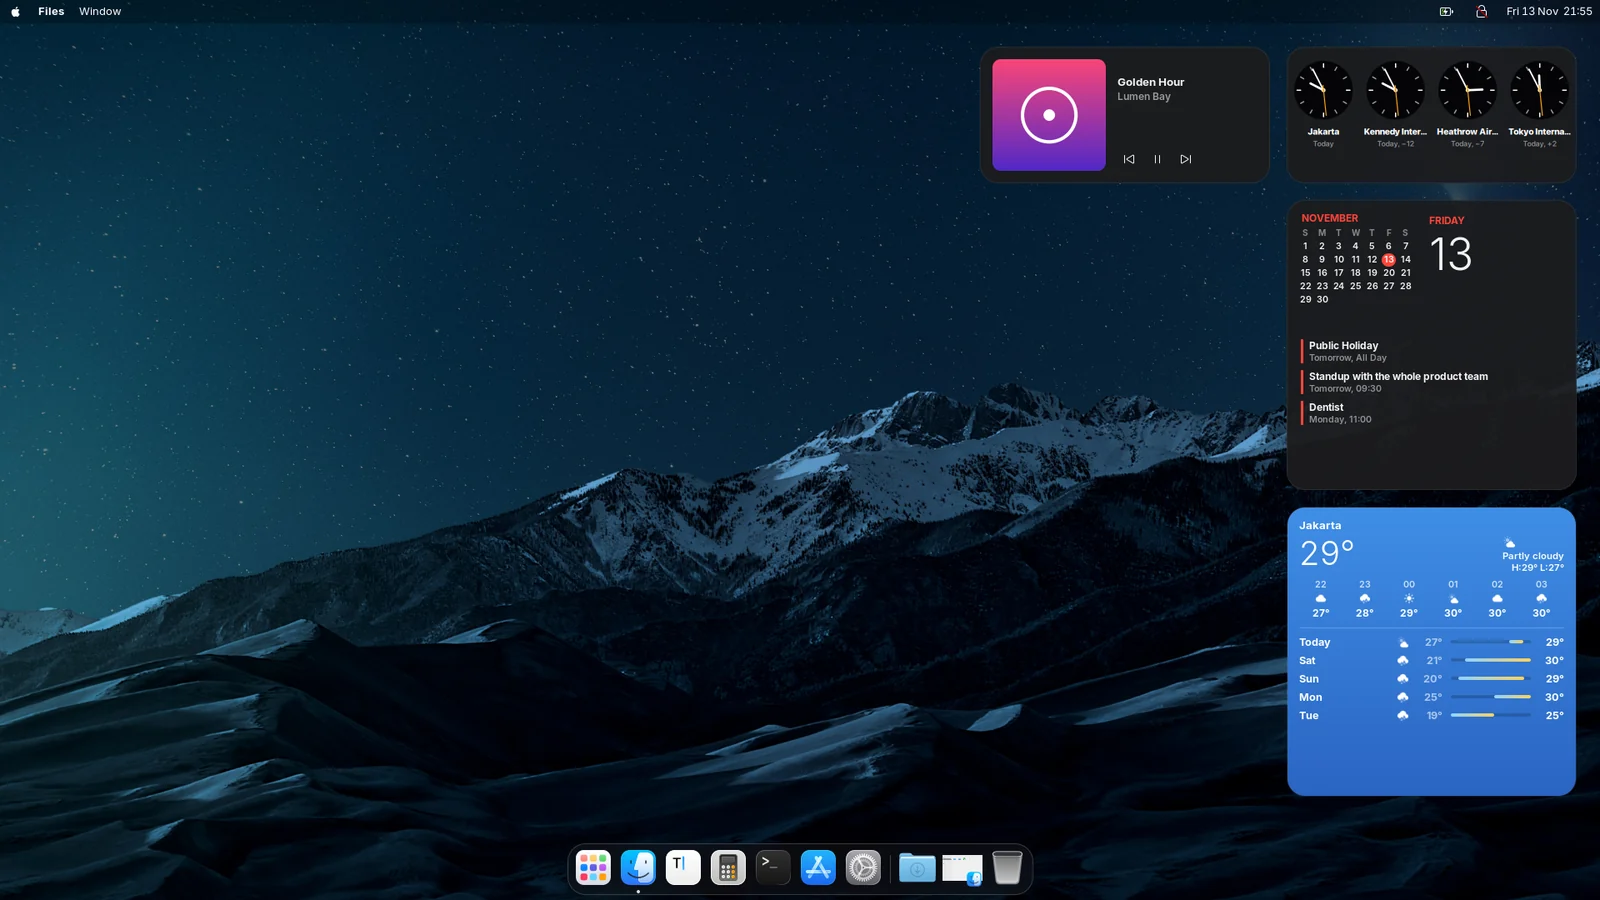
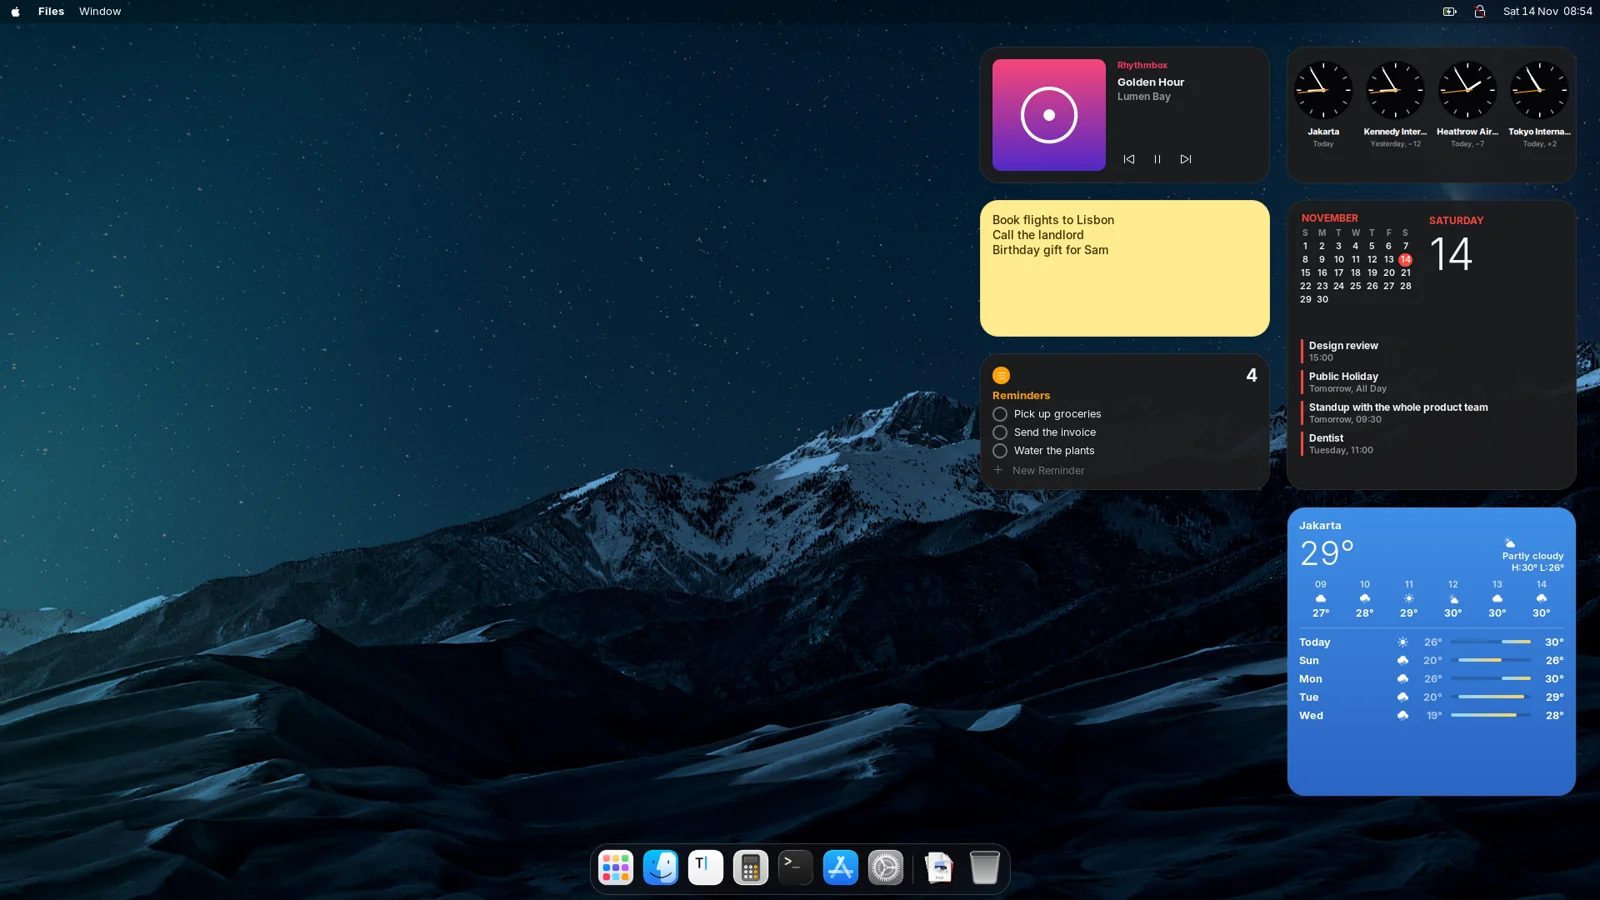
docs: describe what's new in 0.8 and refresh the Spotlight and widget shots

diff --git a/README.md b/README.md
@@ -8,39 +8,34 @@ One GNOME Shell extension that turns GNOME into macOS: the menu bar, the Dock,
 Launchpad, Spotlight, Stage Manager, Mission Control and the small touches in
 between, instead of a stack of tweak extensions that each fix one corner.
 
-[Install](#install) · [What's new](#whats-new-in-07) · [Features](#features) · [Shortcuts](#keyboard-shortcuts)
+[Install](#install) · [What's new](#whats-new-in-08) · [Features](#features) · [Shortcuts](#keyboard-shortcuts)
 
 </div>
 
 ![A GNOME desktop with Macr: the menu bar, a Files window with traffic lights, desktop widgets and the Dock](docs/screenshots/hero.webp)
 
-## What's new in 0.7
+## What's new in 0.8
 
-- **Screen saver.** After a few idle minutes your wallpaper drifts slowly
-  under a big clock until you touch a key or the mouse. A playing video keeps
-  it away.
-- **A wallpaper for each desktop.** Pick a wallpaper and only the desktop on
-  screen gets it; switching desktops crossfades to each one's.
-- **Add and close Spaces in Mission Control.** A **+** at the end of the
-  Spaces bar adds a desktop that stays until you close it with the **×** on
-  its thumbnail. Drop a window on **+** to give it a desktop of its own.
-- **Search the menus from Help.** Type in the Help menu's search field to find
-  any item in the app's menus, and press Enter to run it.
-- **Widgets in the Notification Center**, under your notifications. Batteries
-  and photos at first; pick others in Macr's settings.
-- **Quit or hide from Alt+Tab.** Press Q to quit the chosen app or H to hide it
-  without letting go.
-- **macOS-style system sounds** for the volume pop, screenshots, emptying the
-  Trash, plugging in power, alerts and notifications.
-- **Two more hot corner actions**: the focused app's windows, and putting the
-  displays to sleep.
-- **Every feature is on from the start**, and a notification tells you when
-  another extension clashes with Macr, with a button to turn it off.
-- **Clear the Dock's recent apps**: right-click one for Remove from Dock or
-  Clear Recent Apps.
-- Fixes: the wallpaper shows on every monitor in Mission Control, the hot
-  corner on the side next to a second monitor works, magnified Dock icons stay
-  sharp at 100% scale, and the traffic lights keep their size in Chrome.
+- **Spotlight views, as in macOS Tahoe.** Super+1 to Super+4, or the round
+  buttons by the search field, narrow Spotlight to Apps, Files, Actions
+  (Lock Screen, Dark Mode, Empty Trash, an app's "New Window"…) or your
+  Clipboard.
+- **Focus modes** in the Control Center: Do Not Disturb, Work, Personal and
+  Sleep, each with the apps still allowed to show banners and an optional
+  daily schedule. The menu bar shows the mode's icon.
+- **A Now Playing tile** in the Control Center with the song's cover and
+  controls, and a choice in Macr's settings of which tiles show.
+- **Stickies and Reminders widgets**: click a note and type, it saves as you
+  go, in five colours; type a reminder and tick it off when it is done. On
+  the desktop and in the Notification Center.
+- **Quick Note** from a hot corner: a new sticky note by the corner, ready to
+  type in.
+- **Stacks pile up on the Dock** like macOS: a folder's newest files show on
+  its icon, and the Downloads stack bounces when a download finishes.
+- **Assign To** from a Dock icon's Options: an app's windows open on All
+  Desktops, on This Desktop, or wherever you are.
+- Fixes: the screenshot toolbar opens on the monitor with the pointer, and
+  Stage Manager's tilted thumbnails keep their shape on every monitor.
 
 ## Features
 
@@ -99,7 +94,7 @@ are laid out like macOS System Settings.
 - **Quick Look**: Space on a file in the Downloads stack, or Super+Y on a file
   in Spotlight, previews it; the arrow keys go to the next file.
 
-<p align="center"><img src="docs/screenshots/spotlight.webp" width="640" alt="Spotlight converting 10 km to miles"></p>
+<p align="center"><img src="docs/screenshots/spotlight.webp" width="640" alt="Spotlight converting 10 km to miles, with its Apps, Files, Actions and Clipboard buttons"></p>
 
 ### Windows
 
@@ -138,7 +133,7 @@ are laid out like macOS System Settings.
 
 ### Desktop
 
-![Desktop widgets: Now Playing, world clocks, a calendar with events and a weather forecast](docs/screenshots/desktop-widgets.webp)
+![Desktop widgets: Now Playing, a sticky note, Reminders, world clocks, a calendar with events and a weather forecast](docs/screenshots/desktop-widgets.webp)
 
 - **Desktop widgets**: clock, calendar, weather, batteries, photo and
   Now Playing widgets under your windows, in small, medium or large (world
